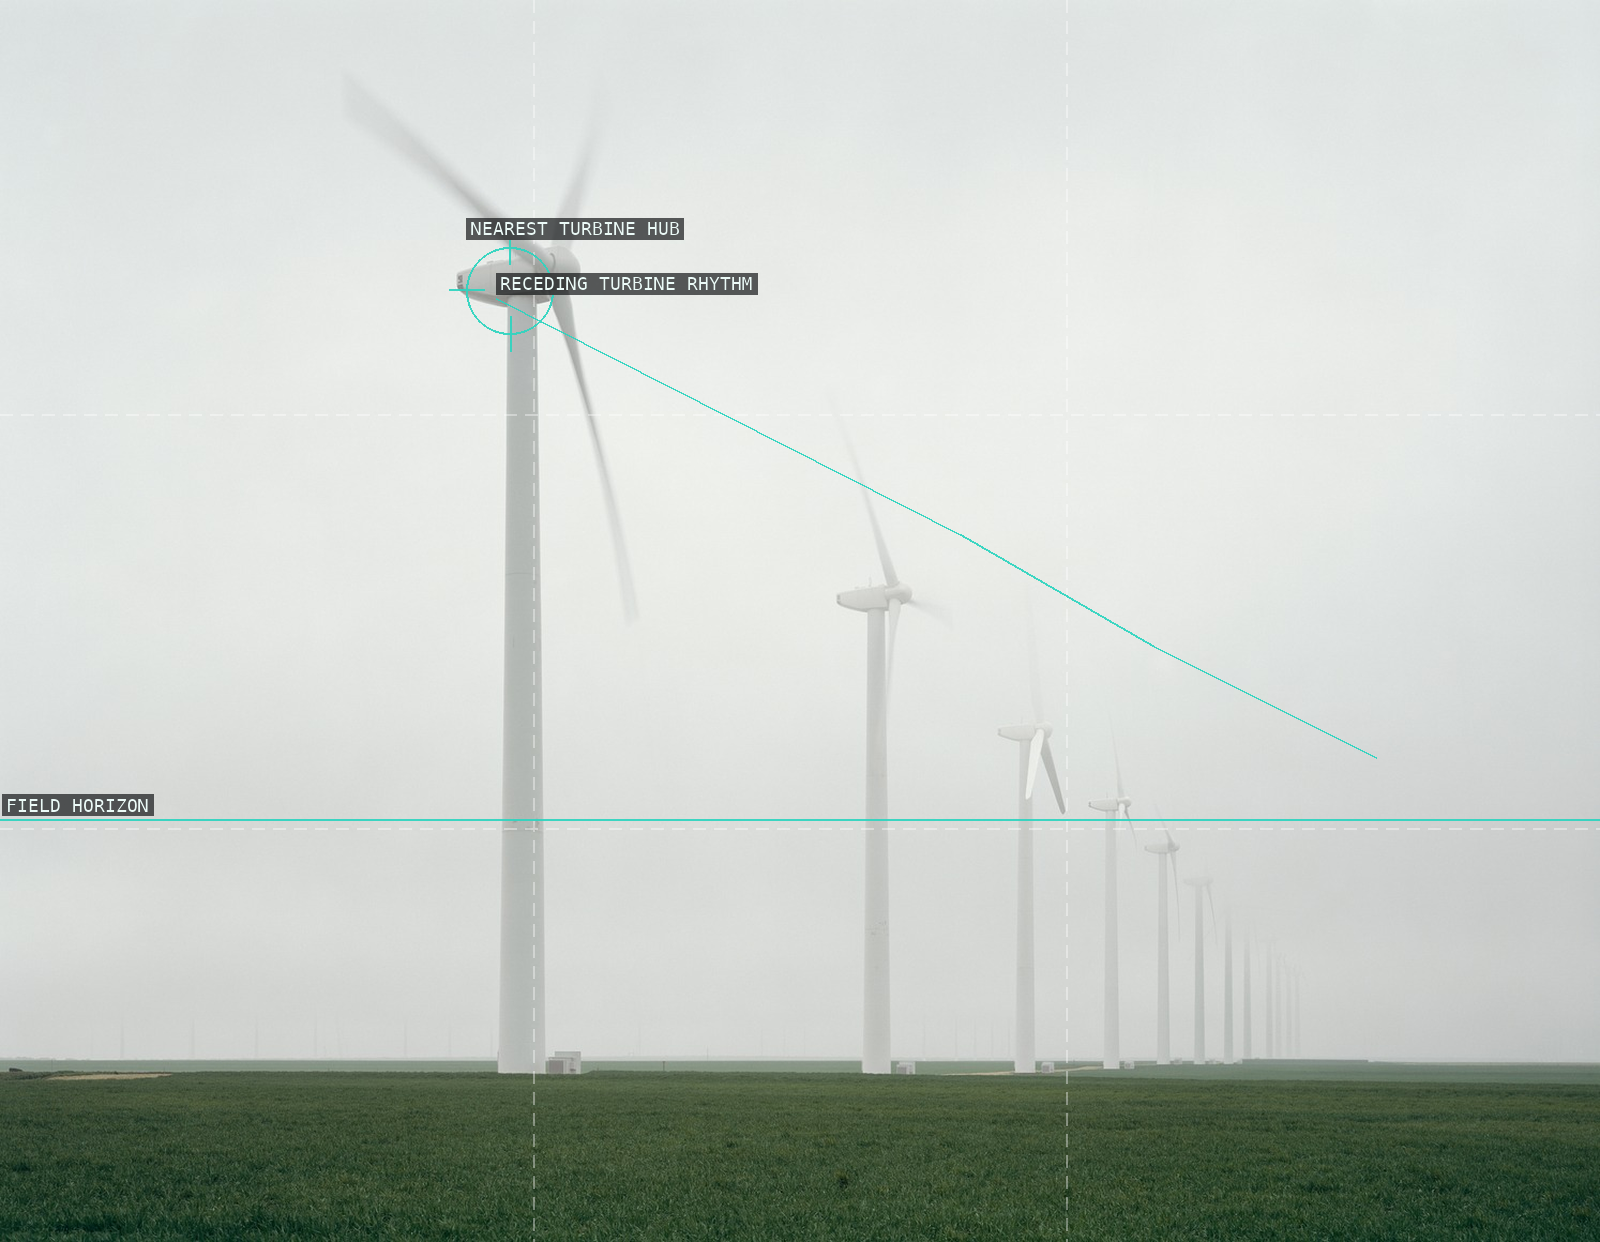
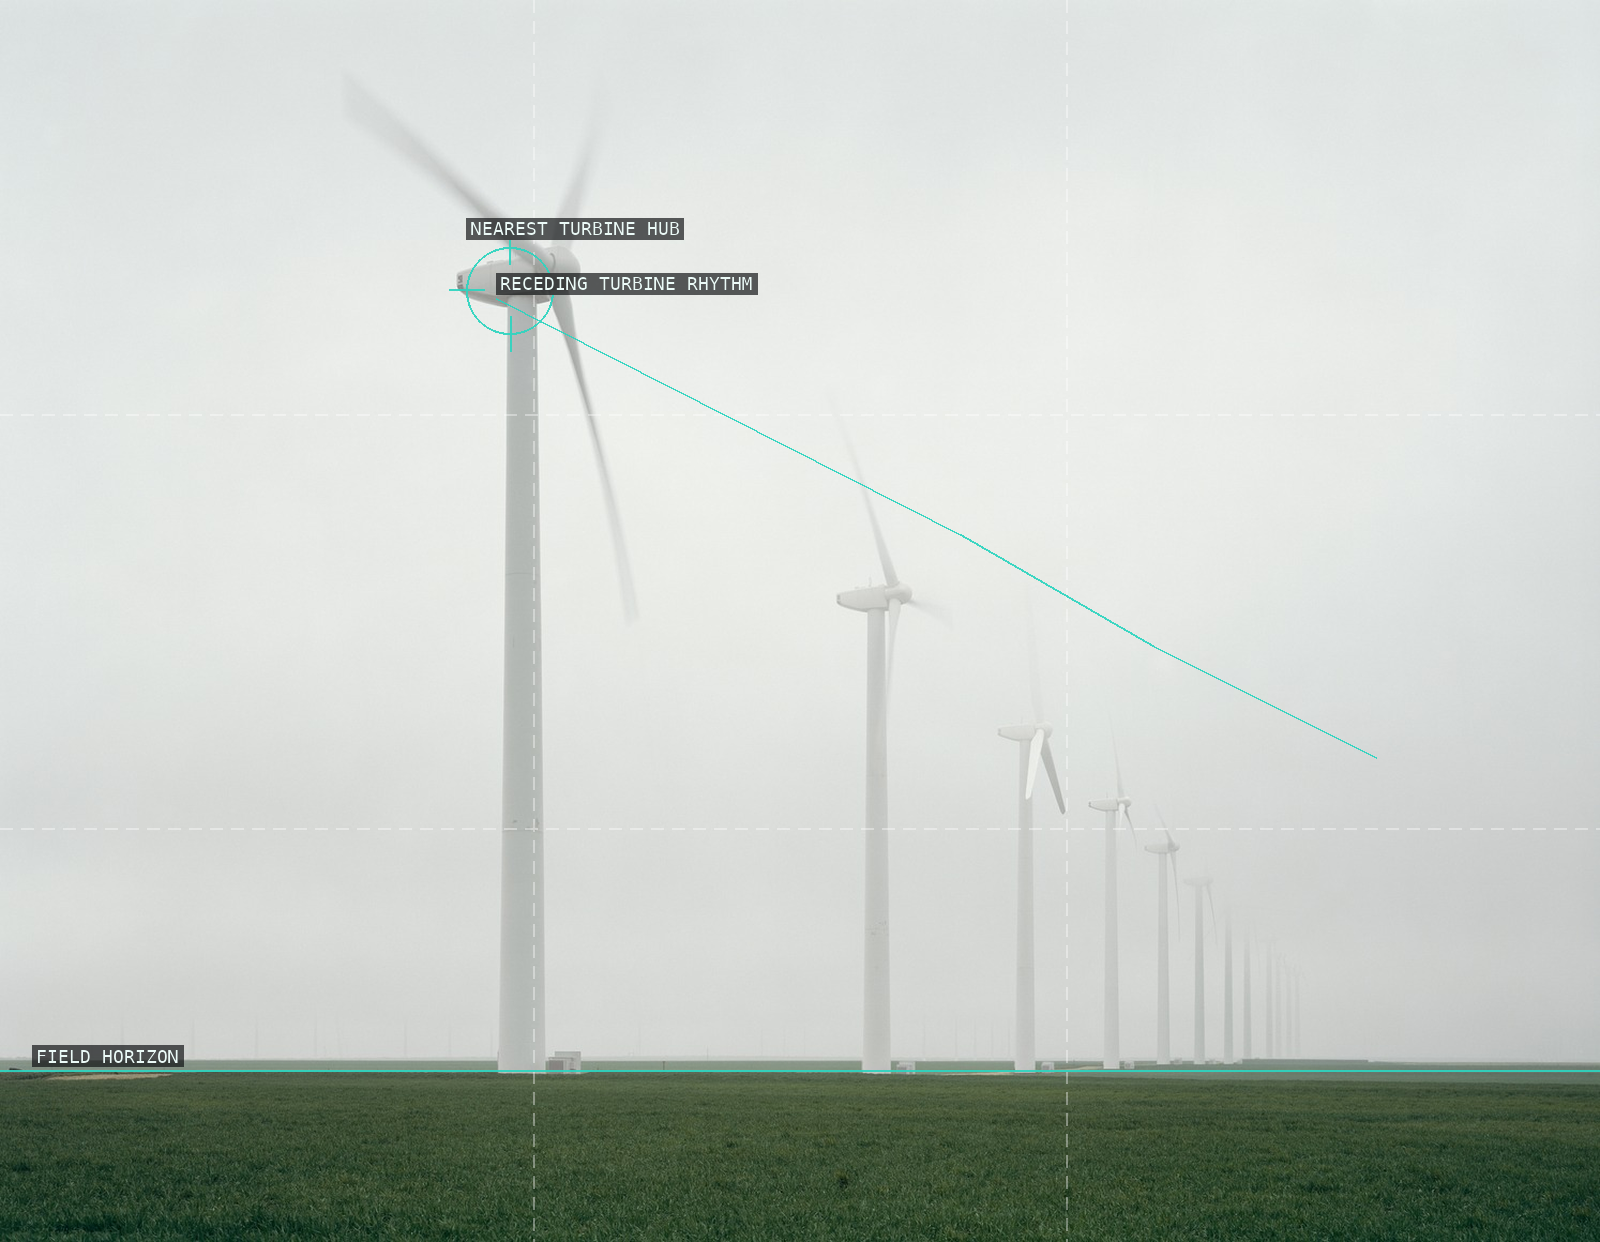
resolve critique: mitch-epstein

Changed region(s): [[0.0, 0.8261, 0.125, 0.8873], [0.0, 0.6119, 0.0938, 0.6731]]

diff --git a/content/mitch-epstein/critique.md b/content/mitch-epstein/critique.md
@@ -1,4 +1,4 @@
-verdict: revise
+verdict: resolved
 
 ## Critique round — 2026-08-03
 
@@ -11,3 +11,10 @@ verdict: revise
 ### Advisory (non-blocking)
 
 None. All twelve proof/spec pairs score 100 in the deterministic geometry check; the two blocking findings are semantic visual-pass errors, which that check does not assess. The chapter's reported tonal, palette, and edge-density values match the corresponding analysis files within tolerance; the research note correctly avoids treating later embedded display-file EXIF as capture evidence; and each image has a traceable, credited source with an image-specific four-factor fair-use rationale.
+
+## Builder resolution — 2026-08-03
+
+1. **03-green-mountain-wind-farm:** Replaced the false fog-level polyline with a `field horizon` horizon line at `y: 0.862`, the analyzer's measured field/sky boundary. Re-rendered the proof; deterministic score is 100 and the visual pass confirms the line traces the visible boundary at the top of the field.
+2. **06-biloxi-mississippi:** Repositioned the `sea horizon` polyline to the visible sea band behind and to the right of the overturned car (`y: 0.665`–`0.675`), rather than crossing the tree and sky. Re-rendered the proof; deterministic score is 100 and the visual pass confirms the line follows the narrow water band.
+
+Re-verified all required fixes from critique history: the only prior round is **2026-08-03**, and both required corrections remain present in the current overlay specs, proofs, and associated chapter claims.
